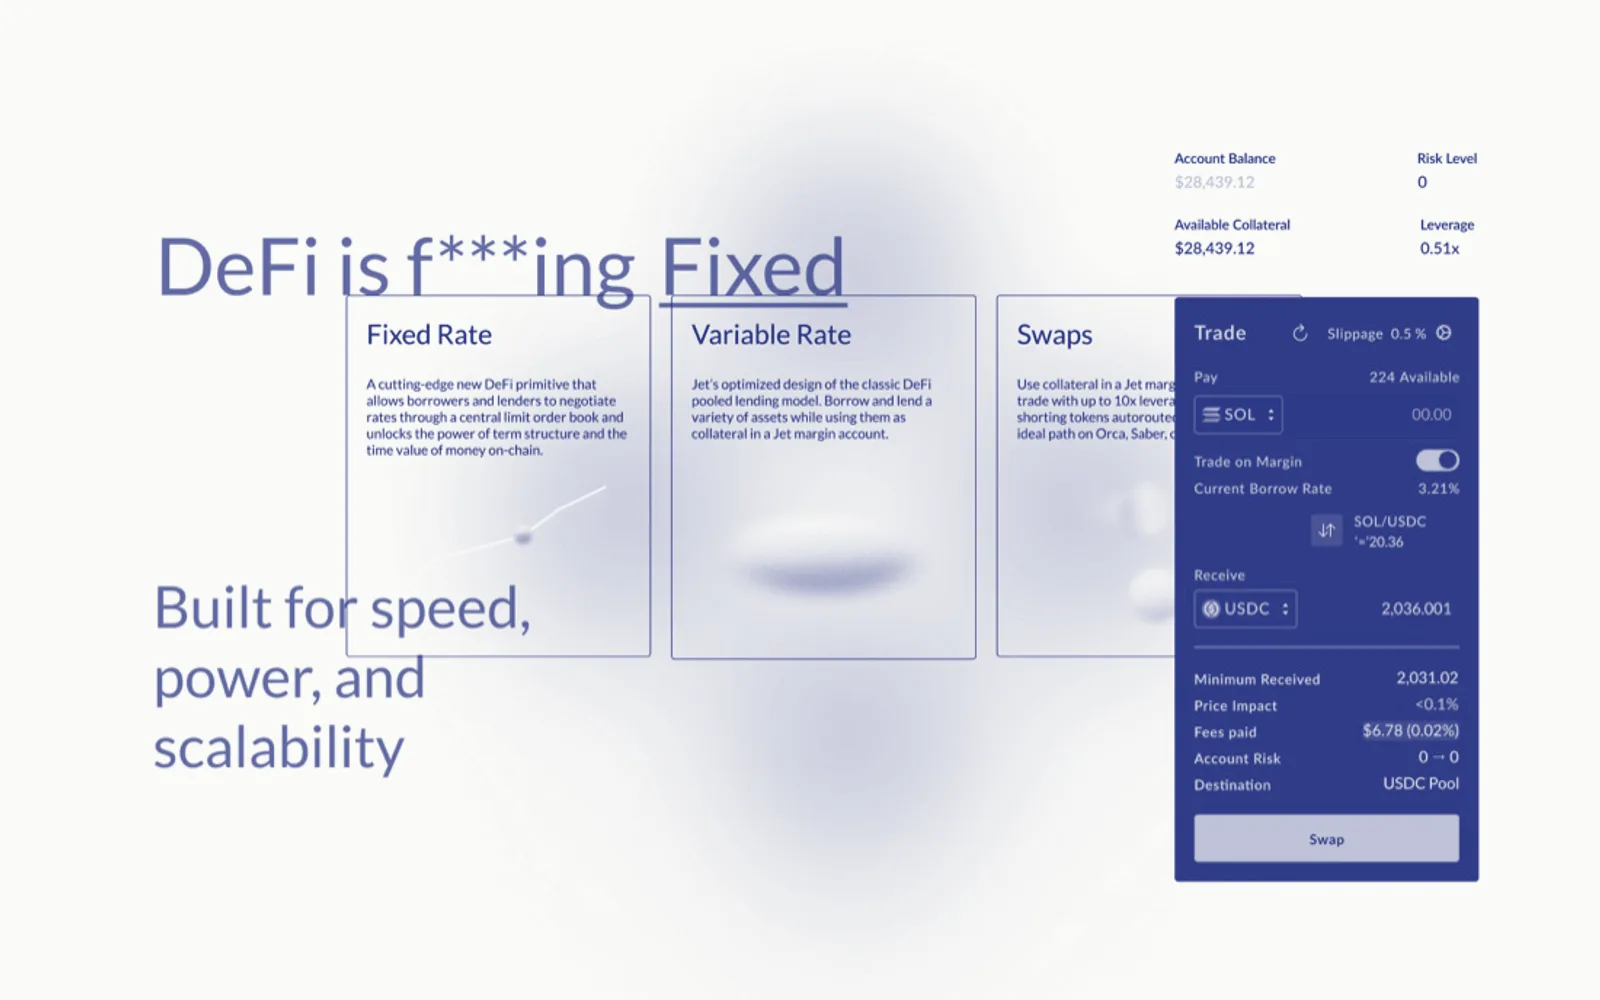
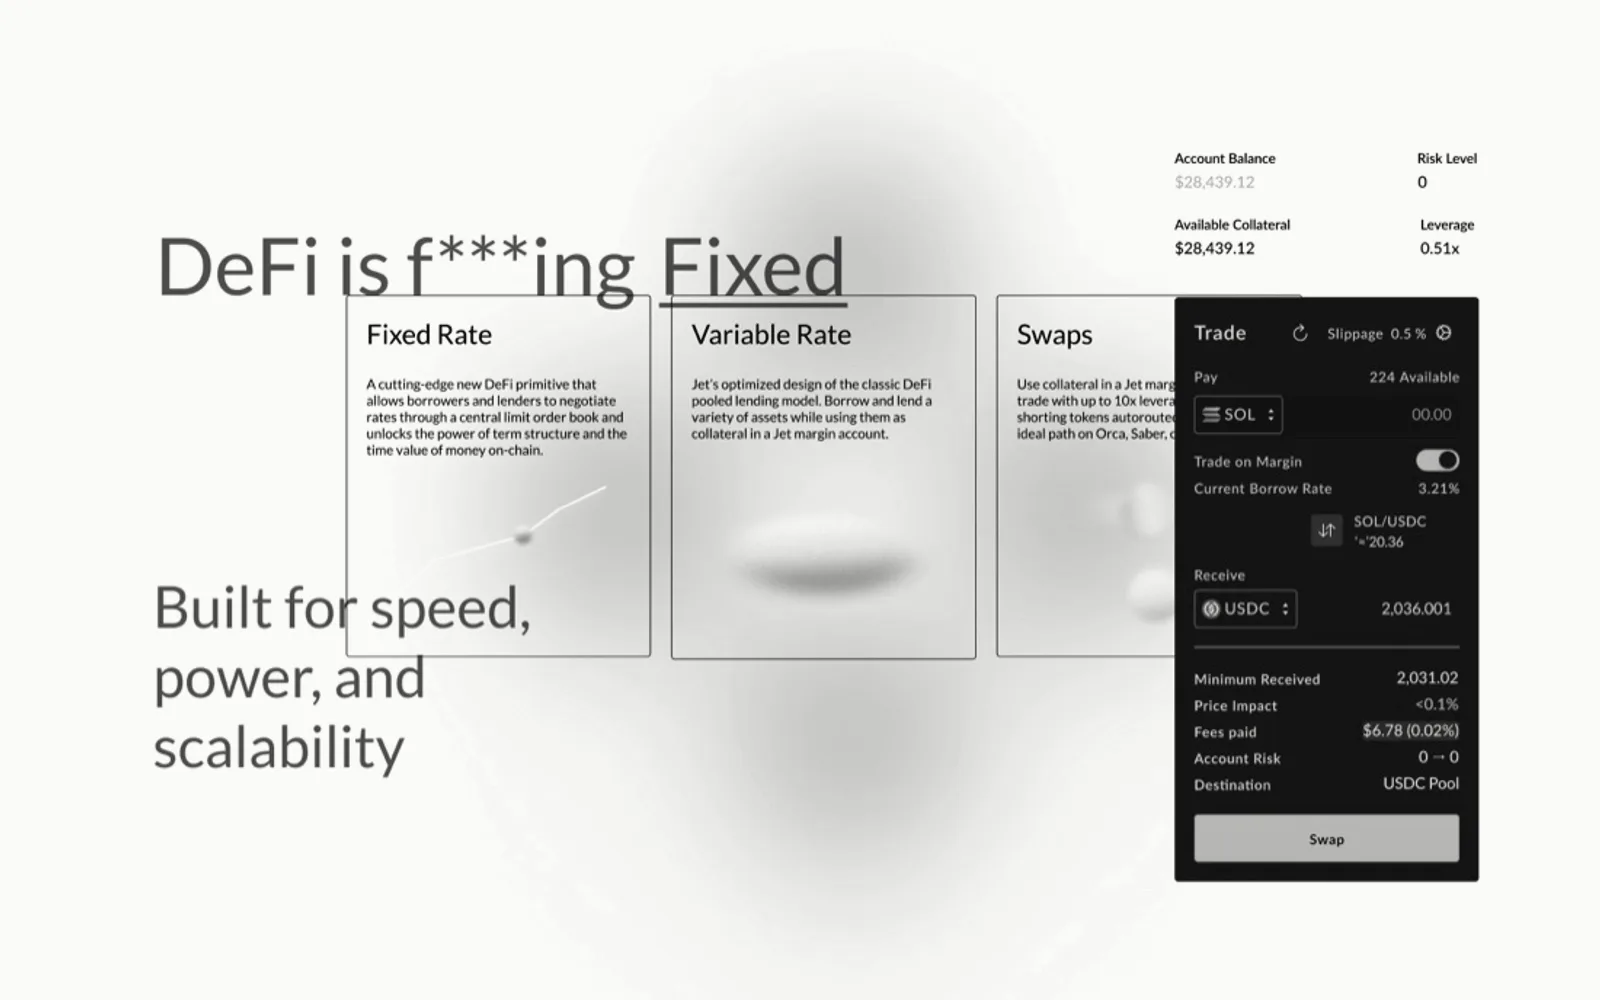
Black ink, blue accent, larger globe panel
Ink is black. The blue becomes the one accent, with a light blue
behind it: the send button, primary buttons, links in answers,
focus rings, selection, the open tab and the marks on the globe.
The globe panel is 1.6x larger on desktop. Covers regenerated.

diff --git a/app/globals.css b/app/globals.css
@@ -466,3 +466,31 @@ p{text-wrap:pretty}
   .preview.view-globe .globe-svg{max-height:46svh}
   .globe-svg{max-height:calc(100svh - 340px)}
 }
+
+/* The globe is the picture, so its panel takes the room: the pair widens to the window, the globe
+   fills the panel's full height, and the caption sits over its lower left corner instead of under it. */
+@media(min-width:769px){
+  .conversation:has(.preview.view-globe){--pair:min(1440px,calc(100vw - 72px))}
+  body:has(.preview.view-globe) .hero-work{left:max(36px,calc((100vw - min(1440px,calc(100vw - 72px))) / 2))}
+  .preview.view-globe .frame{flex:1;min-height:0}
+  .preview.view-globe .preview-info{position:absolute;left:0;bottom:0;max-width:240px;pointer-events:none}
+  .preview.view-globe .preview-info h2{margin-top:0}
+}
+
+/* Accent. Ink stays black for text and rules; blue marks what can be acted on and what is active. */
+::selection{background:var(--accent-soft);color:var(--ink)}
+.input{caret-color:var(--accent)}
+.shell.has .send{background:var(--accent)}
+.btn.primary{background:var(--accent);border-color:var(--accent);color:var(--paper)}
+.btn.primary:hover{background:var(--accent);opacity:.9}
+.chat-link{color:var(--accent);text-decoration-color:color-mix(in srgb,var(--accent) 50%,transparent)}
+.chat-link:hover,.chat-link[aria-pressed=true]{text-decoration-color:var(--accent)}
+.prompts button:hover{background:var(--accent-soft);color:var(--accent)}
+.prompts button svg{color:var(--accent);opacity:1}
+.tab[aria-current=page]{border-color:var(--accent);background:var(--accent-soft);color:var(--accent)}
+.email-pill.on{border-color:var(--accent);color:var(--accent)}
+.globe-svg .mark .ring{stroke:var(--accent)}
+.globe-svg .mark .dot,.globe-svg .dot{fill:var(--accent)}
+.globe-svg .pulse{stroke:var(--accent)}
+:focus-visible,.pj:focus-visible,.mpn:focus-visible,.boring:focus-visible,.btn:focus-visible,.preview-close:focus-visible,.chat-link:focus-visible,.email-pill:focus-visible,.prompts button:focus-visible{outline-color:var(--accent)}
+.input:focus-visible{outline:0}

diff --git a/src/components/assistant-ui/elements/message-pair.tsx b/src/components/assistant-ui/elements/message-pair.tsx
@@ -62,7 +62,7 @@ export function MessagePair({
         {/* Room is held only while the answer is arriving, so what follows a finished answer sits close to it. */}
         <div className={cn("text-[15px] leading-relaxed", streaming && "min-h-[4.25rem]")}>
           {status ? (
-            <span role="status" className="animate-pulse text-[color:var(--ink-placeholder)] motion-reduce:animate-none">
+            <span role="status" className="animate-pulse text-[color:var(--accent)] motion-reduce:animate-none">
               {status}
             </span>
           ) : !streaming && final ? final : shown.map((word, index) => {
@@ -87,7 +87,7 @@ export function MessagePair({
           {streaming && !status && shown.length > 0 && (
             <span
               aria-hidden
-              className="-mb-0.5 ml-0.5 inline-block h-4 w-0.5 animate-pulse rounded-full bg-[var(--ink)] motion-reduce:animate-none"
+              className="-mb-0.5 ml-0.5 inline-block h-4 w-0.5 animate-pulse rounded-full bg-[var(--accent)] motion-reduce:animate-none"
             />
           )}
         </div>

diff --git a/src/design/tokens.test.ts b/src/design/tokens.test.ts
@@ -27,7 +27,7 @@ test("no raw colours in app or src outside the generated tokens", () => {
 })
 
 test("ink and paper stay locked to the spec", () => {
-  assert.equal(tokens.color.ink, "#2E3A87")
+  assert.equal(tokens.color.ink, "#111111")
   assert.equal(tokens.color.paper, "#FBFBF8")
-  assert.equal(inkAt("hair"), "rgba(46,58,135,0.2)")
+  assert.equal(inkAt("hair"), "rgba(17,17,17,0.2)")
 })

diff --git a/system/tokens.css b/system/tokens.css
@@ -9,7 +9,7 @@
 :root {
   /* Text uses --ink. 70% ink on paper is about 4.3:1, short of AA for small type. */
   --paper: #FBFBF8;
-  --ink: #2E3A87;
+  --ink: #111111;
   --ink-70: color-mix(in srgb, var(--ink) 70%, var(--paper));
   --ink-40: color-mix(in srgb, var(--ink) 40%, var(--paper));
   --ink-15: color-mix(in srgb, var(--ink) 15%, var(--paper));

diff --git a/src/design/tokens.ts b/src/design/tokens.ts
@@ -1,7 +1,9 @@
 // Generated from design/tokens.json by scripts/tokens.mjs. Do not edit.
 export const tokens = {
   "color": {
-    "ink": "#2E3A87",
+    "ink": "#111111",
+    "accent": "#2E3A87",
+    "accentSoft": "#E3E8FA",
     "paper": "#FBFBF8",
     "surface": "#FFFFFF"
   },

diff --git a/app/tokens.css b/app/tokens.css
@@ -1,6 +1,8 @@
 /* Generated from design/tokens.json by scripts/tokens.mjs. Do not edit. */
 :root{
-  --ink:#2E3A87;
+  --ink:#111111;
+  --accent:#2E3A87;
+  --accent-soft:#E3E8FA;
   --paper:#FBFBF8;
   --surface:#FFFFFF;
   --ink-hover:color-mix(in srgb,var(--ink) 5%,transparent);

diff --git a/tests/test_renderer.py b/tests/test_renderer.py
@@ -205,7 +205,7 @@ def test_token_snapshot():
     snapshot = json.loads((ROOT / "tests" / "snapshots" / "tokens.json").read_text(encoding="utf-8"))
     assert tokens == snapshot
     assert tokens["--paper"] == "#FBFBF8"
-    assert tokens["--ink"] == "#2E3A87"
+    assert tokens["--ink"] == "#111111"
     assert "70%" in tokens["--ink-70"]
     assert "40%" in tokens["--ink-40"]
     assert "15%" in tokens["--ink-15"]

diff --git a/design/source/gen.py b/design/source/gen.py
@@ -2,7 +2,7 @@ import json
 import os
 import re
 
-INK = "#2E3A87"
+INK = "#111111"
 NOW = 2026.83
 SKIP_TIMELINE = ("Jet brand", "Chatter brand", "Overmatch patterns")
 FOCUS = [

diff --git a/design/source/style-spec.md b/design/source/style-spec.md
@@ -1,5 +1,5 @@
 # Portfolio style spec (locked Oct 29 2026, source: /workspace/portfolio/render/home.html + gen.py + tpl.html)
-- Colour: ink blue #2E3A87 on warm off-white #FBFBF8. Single ink, no accent colour.
+- Colour: black ink #111111 on warm off-white #FBFBF8. One accent, blue #2E3A87, with a light blue #E3E8FA behind it: primary buttons, links, focus, selection, the open tab and the marks on the globe. Text and rules stay ink.
 - Type: Aeonik Pro everywhere (licensed, never commit; load from a private host). SemiBold 600 for company names and dates; Regular 400 for project labels, foci, composer text. Instrument Serif removed. IBM Plex Mono only for the small top label and suggestion cards.
 - Sizes: company names and dates 12.5px; project labels 11.5px; foci 11px; year axis and NOW 10px; header "What are you looking for?" 20px Regular, -0.01em; composer input and placeholder 16px; card title 15px SemiBold, card body 12px; filter tabs 13px.
 - Timeline: role = pill/capsule outline, stroke 1.5px, 12px tall, filled dots at both ends; company + date stacked above left end; 1px tick (30% opacity) down to project label; faint 1px lane baselines at 10%; dashed NOW line; open-ended pills for current roles. Projects/Focus pills 1.2/1.1px.
